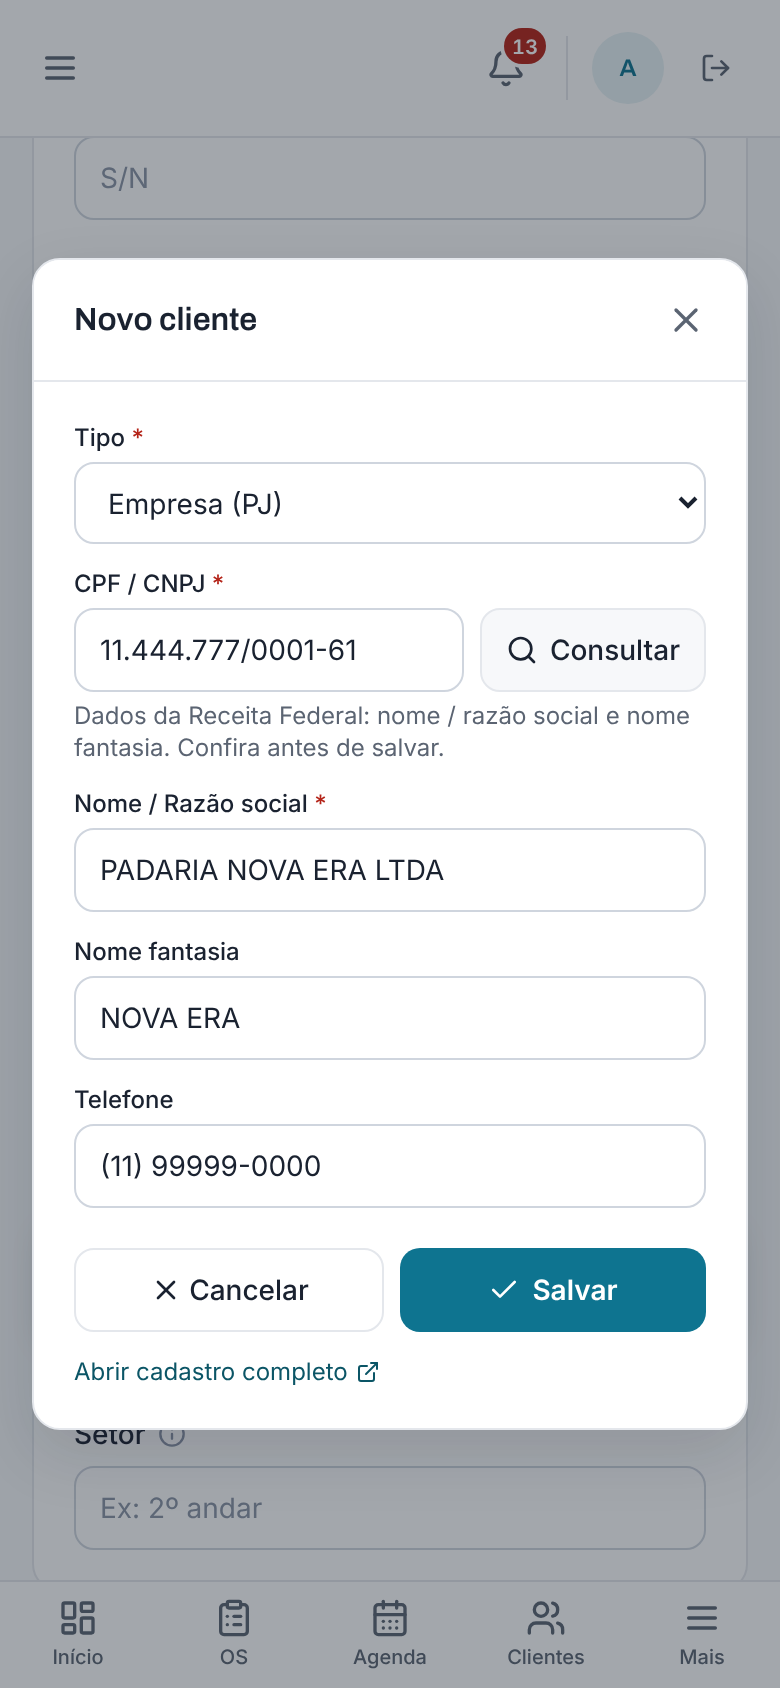
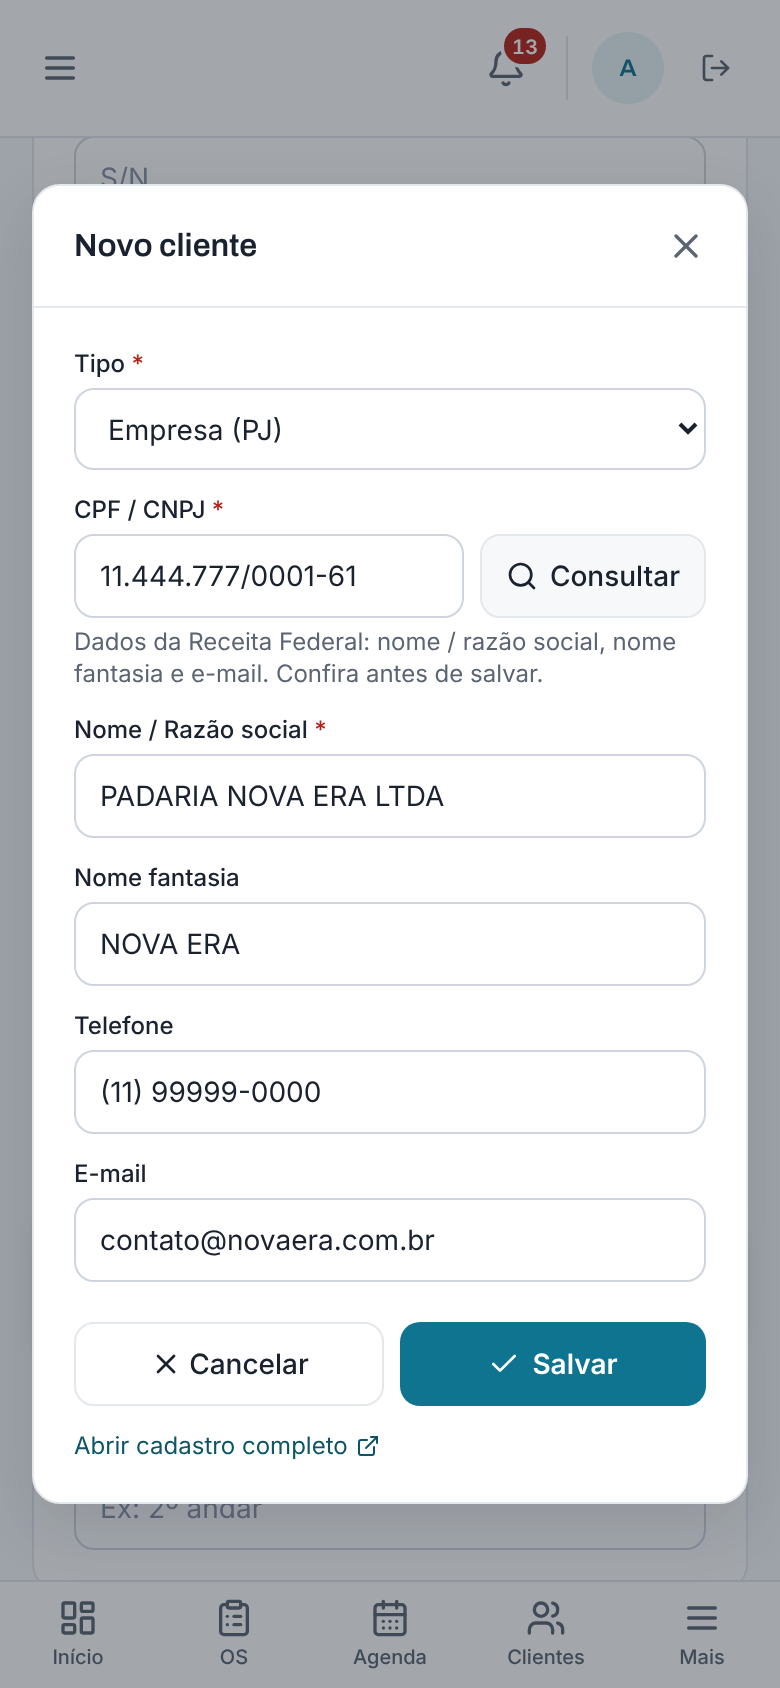
Leva 4A: documento e prints do cadastro rápido com o campo E-mail
Claude-Session: https://claude.ai/code/session_01NogQSnn1DhMU16avoGcmWJ

diff --git a/docs/padronizacao-leva4a.md b/docs/padronizacao-leva4a.md
@@ -85,7 +85,10 @@ botão **Consultar** ao lado do CNPJ, usando a mesma consulta do cadastro comple
 - Tudo continua editável. Se a consulta falha, aparece o motivo e o cadastro segue à mão.
 - O botão e a frase ficam fora do rótulo do campo (leitor de tela lê só "CPF / CNPJ").
 
-A consulta traz razão social, nome fantasia e telefone — os campos que o cadastro rápido tem.
+A consulta traz razão social, nome fantasia, telefone e **e-mail**. O campo E-mail (opcional) foi
+acrescentado ao cadastro rápido por decisão na revisão do PR: a pessoa vê o campo, a consulta só o
+preenche se estiver vazio e ele vai para o cadastro do cliente. A **opção pelo Simples não entra**: o
+cadastro rápido não tem esse campo e ele nunca é enviado.
 
 ## Vocabulário
 
@@ -112,9 +115,9 @@ visível** na tela, de propósito.
 
 ## O que não entrou
 
-- E-mail e opção pelo Simples no cadastro rápido de cliente: a Receita devolve os dois, mas o cadastro
-  rápido não tem esses campos e preencher campo que a pessoa não vê seria "preencher no escuro".
-  Fica a pergunta no PR.
+- Opção pelo Simples no cadastro rápido de cliente: a Receita devolve, mas o cadastro rápido não tem
+  esse campo, e preencher campo que a pessoa não vê seria "preencher no escuro". Decidido na revisão:
+  fica de fora (o e-mail entrou).
 - A ficha do cliente (`/clientes/[id]/editar` e `/clientes/novo`): é a referência de ouro e a
   varredura não apontou nada; não foi tocada.
 - Qualquer mudança no RBAC do painel, em pagamento ou em login.
@@ -132,11 +135,12 @@ visível** na tela, de propósito.
   entra em campo vazio.
 - Teste existente atualizado por mudança intencional: `ux3-toast` (o título da confirmação de inativar
   equipamento virou a pergunta curta).
-- **Mutação**: 124 regras quebradas uma por vez (a permissão de cada rota, cada botão, cada confirmação,
-  o "só em campo vazio" do CNPJ). 123 foram pegas de primeira. A que sobreviveu — vincular etiqueta a
-  equipamento de outra empresa — mostrou um teste fraco (o servidor estava certo, mas o teste passava
-  pelo motivo errado); o teste foi reforçado e agora pega.
-- **Navegador de verdade** (Chromium, app real, banco local descartável): 110 conferências em desktop e
+- **Mutação**: 131 regras quebradas uma por vez (a permissão de cada rota, cada botão, cada confirmação,
+  o "só em campo vazio" do CNPJ, o e-mail opcional, o Simples que não pode ser enviado). Na primeira
+  rodada (124), 123 foram pegas; a que sobreviveu — vincular etiqueta a equipamento de outra empresa —
+  mostrou um teste fraco (o servidor estava certo, mas o teste passava pelo motivo errado); o teste foi
+  reforçado e agora pega. Com o e-mail vieram mais 7, todas pegas.
+- **Navegador de verdade** (Chromium, app real, banco local descartável): 112 conferências em desktop e
   celular. A resposta da Receita foi simulada no navegador (o ambiente local não alcança a BrasilAPI);
   a rota de verdade tem teste próprio. O roteiro achou três defeitos que os testes de DOM não pegam,
   corrigidos nesta leva: a lista do seletor de vincular cortada no celular, a coluna de ações de
